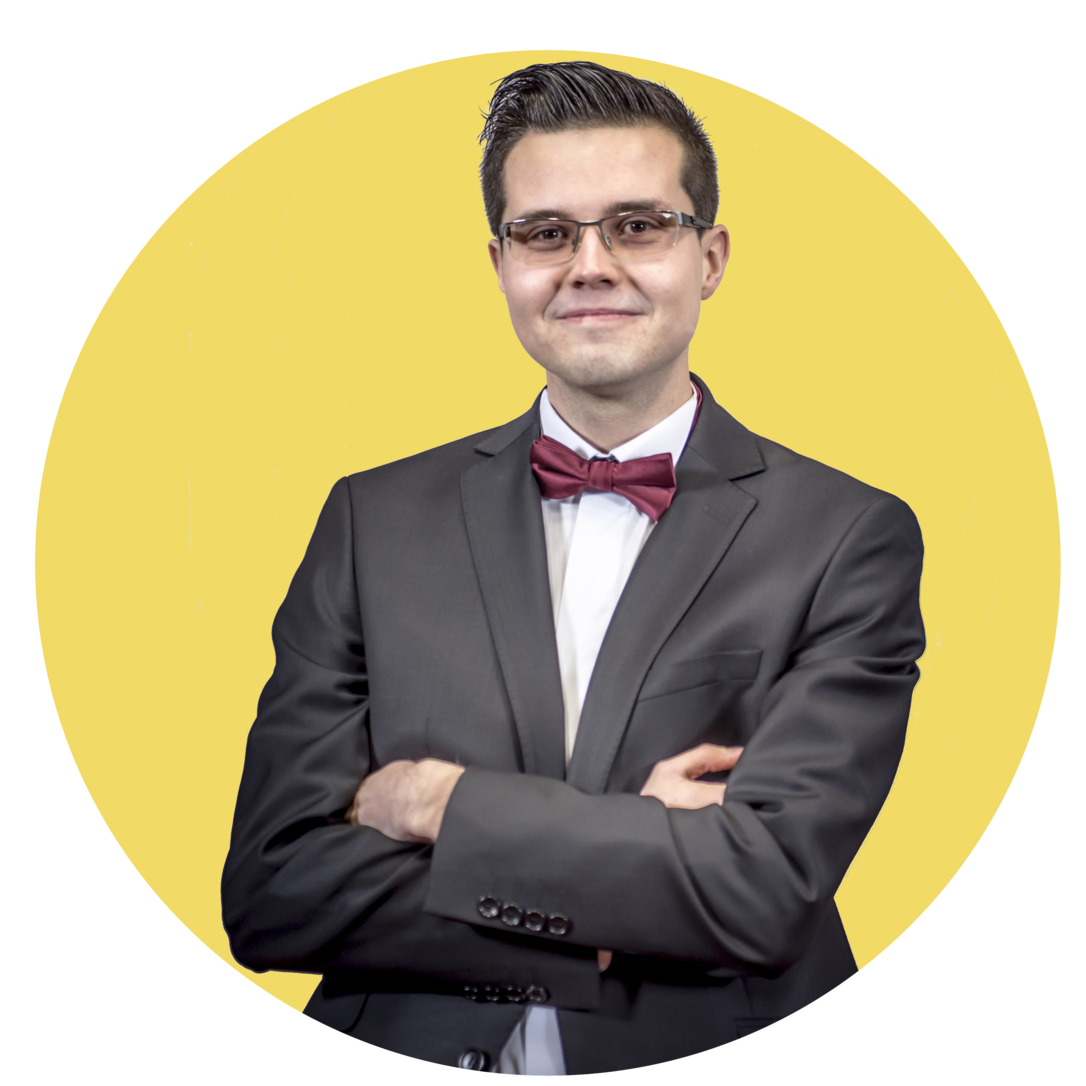
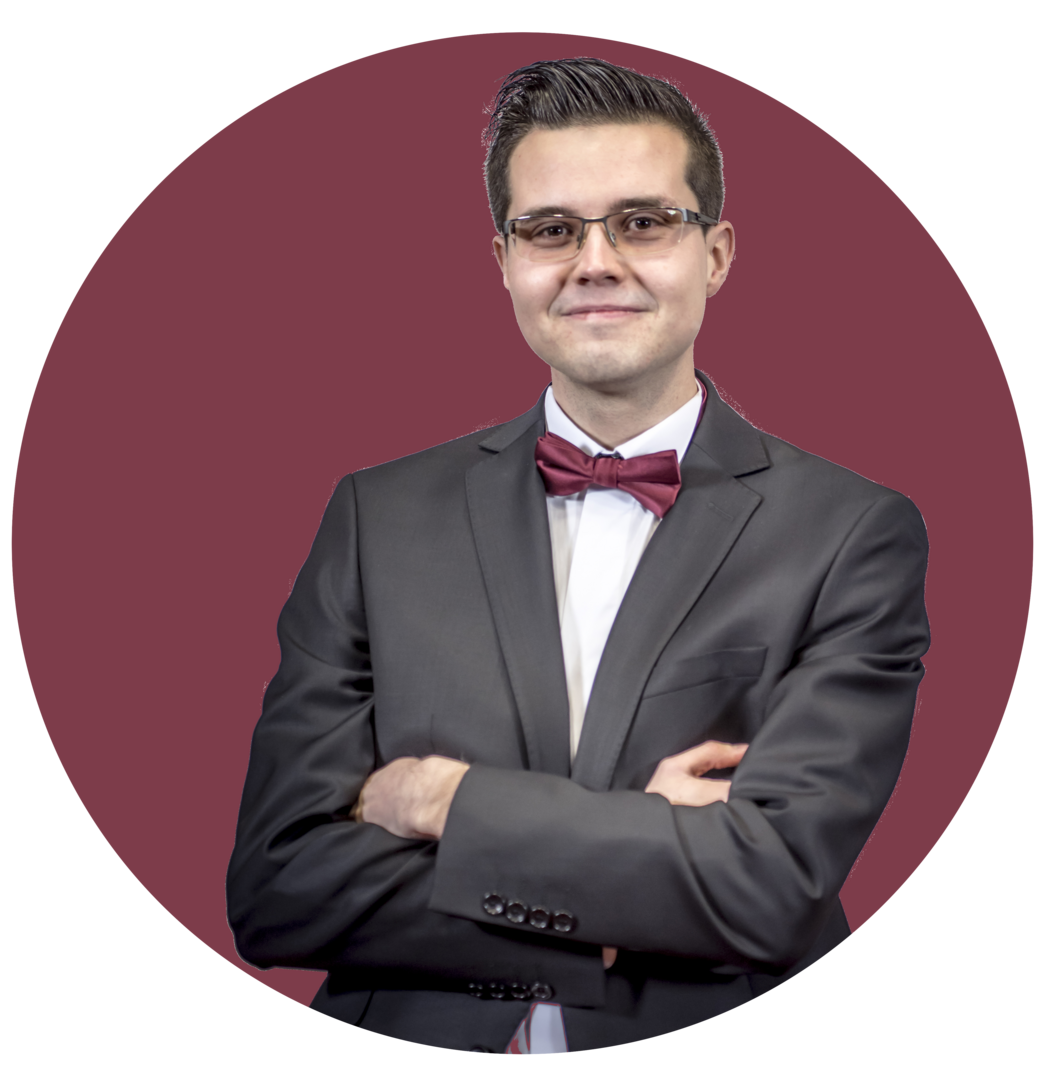
modify primary and secondary color

diff --git a/src/components/Navigation.jsx b/src/components/Navigation.jsx
@@ -33,7 +33,7 @@ const Button = styled.button`
   border-radius: 40px;
   padding: 5px;
   margin: 0 5px;
-  color: #F1DB66;
+  color: var(--secondary-color);
   transition: border 0.1s linear;
 `;
 
@@ -55,7 +55,7 @@ const Navigation = ({page, language, setLanguage}) => {
                             tag={Link}
                             to={`/${language}`}
                             className={page === 'home' ? 'active' : ''} 
-                            style={page === 'home' ? {backgroundColor: '#F1DB66'} : {color: '#bdc3c7'}}
+                            style={page === 'home' ? {backgroundColor: 'var(--secondary-color)', color: 'white'} : {}}
                             >
                                 {language === 'en' ? "HOME" : "ACCUEIL"}
                         </NavLink>
@@ -65,7 +65,7 @@ const Navigation = ({page, language, setLanguage}) => {
                             tag={Link} 
                             to={`/coming-soon/aboutme/${language}`}
                             className={page === 'aboutme' ? 'active' : ''} 
-                            style={page === 'aboutme' ? {backgroundColor: '#F1DB66'} : {color: '#bdc3c7'}}
+                            style={page === 'aboutme' ? {backgroundColor: 'var(--secondary-color)', color: 'white'} : {}}
                             >
                                 {language === 'en' ? "ABOUT ME" : "PRESENTATION"}
                         </NavLink>
@@ -75,7 +75,7 @@ const Navigation = ({page, language, setLanguage}) => {
                             tag={Link}
                             to={`/coming-soon/hobbies/${language}`}
                             className={page === 'hobbies' ? 'active' : ''} 
-                            style={page === 'hobbies' ? {backgroundColor: '#F1DB66'} : {color: '#bdc3c7'}}
+                            style={page === 'hobbies' ? {backgroundColor: 'var(--secondary-color)', color: 'white'} : {}}
                             >
                                 {language === 'en' ? "HOBBIES" : "LOISIRS"}
                         </NavLink>
@@ -84,7 +84,7 @@ const Navigation = ({page, language, setLanguage}) => {
                         <NavLink 
                             href="#" 
                             className={page === 'projects' ? 'active' : ''} 
-                            style={page === 'projects' ? {backgroundColor: '#F1DB66'} : {color: '#bdc3c7'}}
+                            style={page === 'projects' ? {backgroundColor: 'var(--secondary-color)', color: 'white'} : {}}
                             >
                                 <Link to={`/projects/${language}`} style={{textDecoration: 'none', color: 'inherit'}}>{language === 'en' ? "PROJECTS" : "PROJETS"}</Link>
                         </NavLink>
@@ -94,13 +94,13 @@ const Navigation = ({page, language, setLanguage}) => {
                             tag={Link} 
                             to={`/contact-me/${language}`}
                             className={page === 'contactme' ? 'active' : ''} 
-                            style={page === 'contactme' ? {backgroundColor: '#F1DB66'} : {color: '#bdc3c7'}}
+                            style={page === 'contactme' ? {backgroundColor: 'var(--secondary-color)', color: 'white'} : {}}
                             >
                                 {language === 'en' ? "CONTACT ME" : "CONTACTEZ MOI"}
                         </NavLink>
                     </NavItem>
-                    <NavItem className='display-language' style={language === 'en' ? {backgroundColor: '#F1DB66', borderRadius: '0.375rem'} : {color: '#bdc3c7'}} onClick={() => setLanguage('en')}>EN</NavItem>
-                    <NavItem className='display-language' style={language === 'fr' ? {backgroundColor: '#F1DB66', borderRadius: '0.375rem'} : {color: '#bdc3c7'}} onClick={() => setLanguage('fr')}>FR</NavItem>
+                    <NavItem className='display-language' style={language === 'en' ? {backgroundColor: 'var(--secondary-color)', color: 'white', borderRadius: '0.375rem'} : {}} onClick={() => setLanguage('en')}>EN</NavItem>
+                    <NavItem className='display-language' style={language === 'fr' ? {backgroundColor: 'var(--secondary-color)', color: 'white', borderRadius: '0.375rem'} : {}} onClick={() => setLanguage('fr')}>FR</NavItem>
                 </Nav>
             </Collapse>
             <Container>

diff --git a/src/pages/ContactMe.jsx b/src/pages/ContactMe.jsx
@@ -3,12 +3,12 @@ import { useState } from 'react';
 import { useParams } from 'react-router-dom';
 import styled from 'styled-components';
 import Navigation from '../components/Navigation';
-import {BsTelephoneFill} from 'react-icons/bs'
+import {BsTelephoneFill, BsLinkedin} from 'react-icons/bs'
 import {MdEmail} from 'react-icons/md'
 import textLang from '../assets/text-lang.json';
 
 const Section = styled.section`
-  background: linear-gradient(to top, rgba(189,195,199,0), #2c3e50); //#bdc3c7
+  background: linear-gradient(to top, rgba(189,195,199,0), var(--primary-color)); //#bdc3c7
   display: flex;
   flex-direction: column;
   height: 100vh;
@@ -24,7 +24,7 @@ const Contact = styled.div`
 `;
 
 const Title = styled.h2`
-    color: #F1DB66;
+    color: var(--secondary-color);
     margin: 5vh 0;
     grid-column: 1/3;
     text-align: center;
@@ -38,7 +38,7 @@ const Button = styled.a`
   justify-self: end;
   display: flex;
   text-decoration: none;
-  background-color: #F1DB66;
+  background-color: var(--secondary-color);
   border-radius: 50%;
   width: 50px;
   height: 50px;
@@ -46,7 +46,7 @@ const Button = styled.a`
   justify-content: center;
   align-items: center;
   /* margin: 5vh 0; */
-  color: inherit;
+  color: white;
   &:hover{
     color: inherit; 
   }
@@ -64,7 +64,7 @@ const ContactMe = () => {
                 <Button href="tel:+33663853984"><BsTelephoneFill /></Button>
                 <div>+33 6 63 85 39 84</div>
                 <Button href="https://www.linkedin.com/in/josué-ferreira-694095276" target="_blank">
-                    <ImgLink src='/logos/linkedin.png' alt="LinkedIn link" title='Link to LinkedIn' />
+                    <BsLinkedin />
                 </Button>
                 <div>{textLang[language].pages.contactme.linkedIn}</div>
                 <Button href="mailto:ferreira.josu@gmail.com"><MdEmail/></Button>

diff --git a/src/components/IntroductionSection.jsx b/src/components/IntroductionSection.jsx
@@ -8,7 +8,7 @@ const Section = styled.section`
   background: linear-gradient(
     to top,
     rgba(189, 195, 199, 0),
-    #2c3e50
+    var(--primary-color)
   ); //#bdc3c7
   display: flex;
   flex-direction: column;
@@ -30,13 +30,13 @@ const Welcome = styled.div`
 `;
 
 const Button = styled.a`
-  display: inline-block;
+  display: block;
   text-decoration: none;
-  background-color: #f1db66;
+  background-color: var(--secondary-color);
   border-radius: 40px;
   padding: 5px 5vw;
   margin: 5vh 0;
-  color: #2c3e50;
+  color: white;//#2c3e50;
 `;
 
 const ImgPhotoProfil = styled.img`
@@ -49,7 +49,7 @@ const ImgPhotoProfil = styled.img`
 `;
 
 const Name = styled.strong`
-  color: #f1db66;
+  color: var(--secondary-color);
 `;
 
 const Links = styled.div`
@@ -68,6 +68,19 @@ const Hello = styled.div`
   @media screen and (max-width: 400px) {
     width: 90%;
     margin: auto;
+    display: flex;
+    flex-direction: column;
+    align-items: center;
+  }
+`;
+
+const ImgReact = styled.img`
+  display: inline;
+  margin-right: 20px;
+  width: 5rem;
+  @media screen and (max-width: 400px) {
+    display: block;
+    margin: 10px;
   }
 `;
 
@@ -81,7 +94,8 @@ const IntroductionSection = ({ page, language, setLanguage }) => {
             {textLang[language].pages.home.h1}
             <Name>Josué Ferreira</Name>
           </h1>
-          <h2>{textLang[language].pages.home.h2}</h2>
+          <ImgReact src="/logos/react2.svg" alt="react logo" />
+          <h2 style={{display: 'inline'}} >{textLang[language].pages.home.h2}</h2>
           <Button href={textLang[language].pages.home.cvfile} download>
             {textLang[language].pages.home.cv}
           </Button>

diff --git a/src/pages/Games.jsx b/src/pages/Games.jsx
@@ -7,7 +7,7 @@ import styled from 'styled-components';
 import textLang from '../assets/text-lang.json';
 
 const Section = styled.section`
-  background: linear-gradient(to top, rgba(189,195,199,0.5), #2c3e50); //#bdc3c7
+  background: linear-gradient(to top, rgba(189,195,199,0.5), var(--primary-color)); //#bdc3c7
   display: flex;
   flex-direction: column;
   height: 100vh;
@@ -31,11 +31,11 @@ const GameContainer = styled.div`
 const Button = styled.a`
   display: inline-block;
   text-decoration: none;
-  background-color: #F1DB66;
+  background-color: var(--secondary-color);
   border-radius: 40px;
   padding: 5px 5vw;
   margin: 1vh 0;
-  color: #2C3E50;
+  color: white;
 
   @media screen and (max-width: 767px) {
         display: none;
@@ -55,7 +55,7 @@ const Games = () => {
                         <>
                             <img src={element.picture} alt={element.h3} />
                             <div style={{width: '70%'}}>
-                                <h3 style={{color: '#F1DB66'}}>{element.h3}</h3>
+                                <h3 style={{color: 'var(--secondary-color)'}}>{element.h3}</h3>
                                 <p>{parse(element.description)}</p>
                                 <Button href={element.link} target='_blank'>{textLang[language].pages.projects.linkText}</Button>
                             </div>

diff --git a/src/components/SkillCard.jsx b/src/components/SkillCard.jsx
@@ -12,7 +12,7 @@ const SkillCard = ({cardTitle,cardPicture}) => {
         <Card
             className="text-center"
             style={{
-                // width: '18rem',
+                maxWidth: '250px',
                 borderRadius: '40px',
                 boxShadow: '0px 3px 8px rgba(0, 0, 0, 0.24)'
             }}

diff --git a/src/index.css b/src/index.css
@@ -1,5 +1,18 @@
 :root{
   font-family: 'Ubuntu', sans-serif;
+  --primary-color: #f1db66;
+  --secondary-color: #8F3949;
+}
+
+::-webkit-scrollbar {
+  width: 10px;
+}
+::-webkit-scrollbar-thumb {
+  background: lightgrey;
+  border-radius: 5px;
+}
+::-webkit-scrollbar-thumb:hover {
+  background: grey;
 }
 
 body {

diff --git a/src/components/SkillsSection.jsx b/src/components/SkillsSection.jsx
@@ -13,6 +13,9 @@ const SkillContainer = styled.div`
     @media screen and (max-width: 768px){
         flex-direction: column;
     }
+    @media screen and (min-width: 1480px){
+        width: 60%;
+    }
 `;
 
 const Title = styled.h3`
